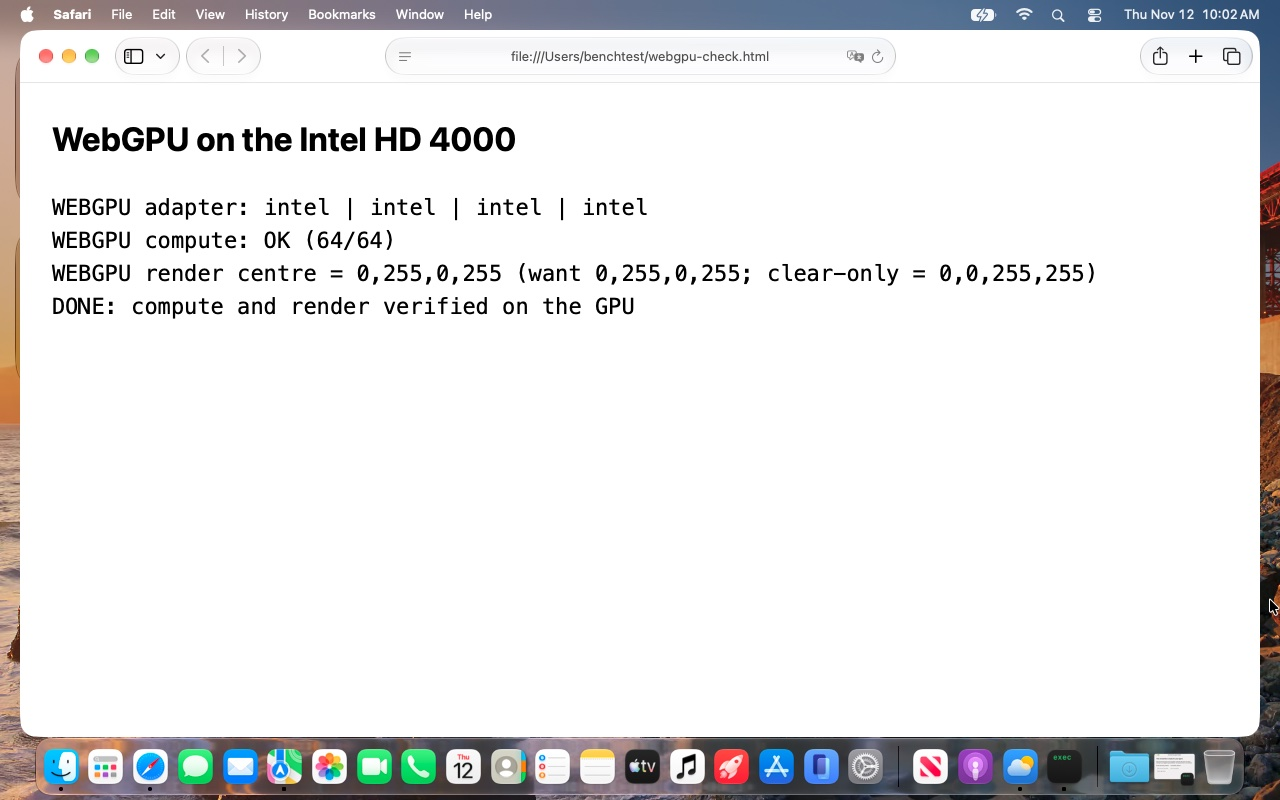
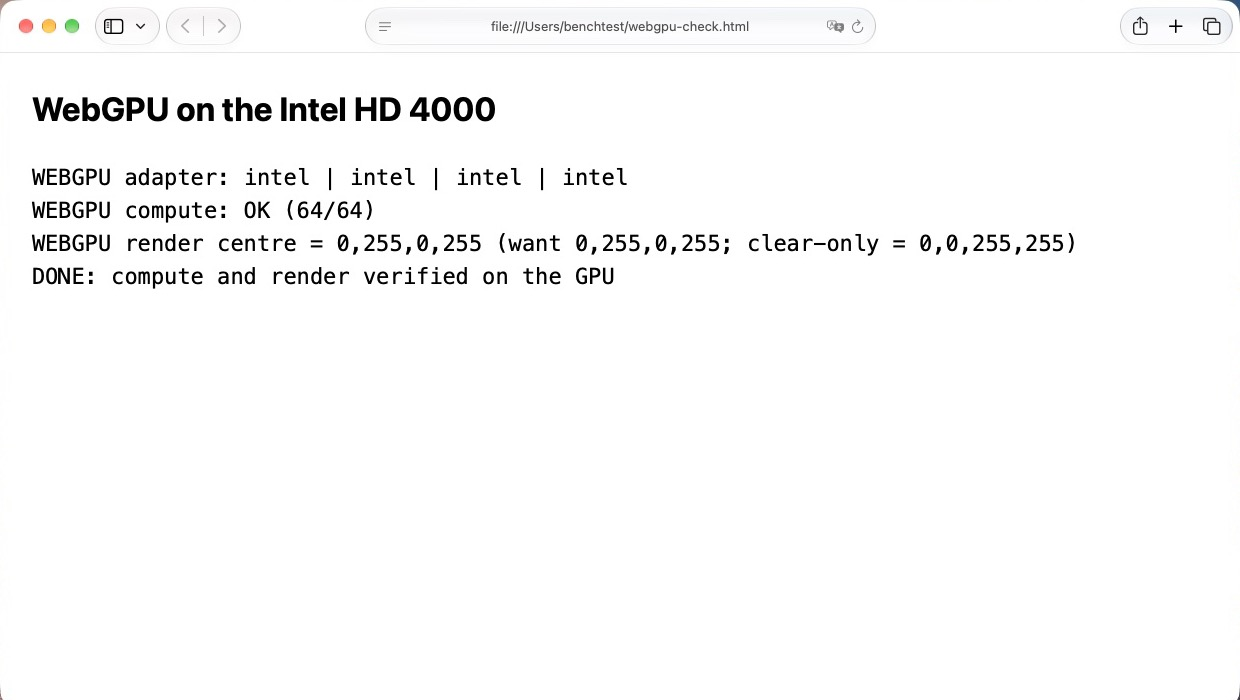
README and gallery: argument-buffer showcase, clean screenshots
- README: a short "Metal argument buffers on the Intel HD 4000" showcase (Weather wind and temperature maps side by
  side, the Safari WebGPU check) linking to the gallery and tools/metal-argbuf.
- Main screenshot: 27.2.1 on 2026-11-11 (About This Mac, Control Center, widgets; serial blank) replaces the
  2026-11-07 desktop, which showed an older build, a "Weather Unavailable" widget and a bench tool in the Dock. The
  Wi-Fi network name in Control Center is blanked.
- Gallery: every image cropped to its app window, removing the Dock and the bench tool's icon.

Tested: README and gallery image links resolve; pipeline private-reference guard OK; images checked by eye.

Claude-Session: https://claude.ai/code/session_013Bf4uRfkU6NKoEExqQCLqb

Changed region(s): [[0.0, 0.0, 1.0, 1.0]]

diff --git a/README.md b/README.md
@@ -8,10 +8,25 @@ kernel extensions, drivers and boot files macOS 26 (Tahoe) still ships, legacy h
 Patcher, a set of compatibility fixes, and [hao-runtime](https://github.com/lythka/hao-runtime), which runs Golden
 Gate's ARM-only programs on the Intel CPU.
 
-![macOS 27 desktop and Control Center on an Intel Mac](docs/images/desktop-intel.jpg)
+![macOS 27.2.1 on a 2012 MacBook Pro: About This Mac, Control Center and widgets](docs/images/desktop-intel.jpg)
 
 [Gallery](docs/gallery.md) · [Progress](docs/progress.md) · [Building](docs/building.md) ·
 [Buy me a coffee](https://buymeacoffee.com/lythka)
+
+### Metal argument buffers on the Intel HD 4000
+
+The HD 4000's legacy Metal stack has no argument buffers or ASTC textures, which Weather's maps, Safari's WebGPU,
+SceneKit and Apple's effects engine need. hao-patcher adds both to the shader compiler and the driver
+([tools/metal-argbuf](tools/metal-argbuf)):
+
+<p>
+<img src="docs/images/gallery/weather-wind-map.jpg" alt="Weather wind map on the HD 4000" width="49%">
+<img src="docs/images/gallery/weather-temperature-map.jpg" alt="Weather temperature map on the HD 4000" width="49%">
+</p>
+
+<img src="docs/images/argbuf-webgpu.jpg" alt="Safari WebGPU compute and render check passing on the HD 4000" width="98%">
+
+More in the [gallery](docs/gallery.md): the air-quality map, Maps in 3D and SceneKit.
 
 ## Status
 

diff --git a/docs/gallery.md b/docs/gallery.md
@@ -1,6 +1,6 @@
 # Gallery
 
-macOS 27.2.1 (26B131) on the development platform, a 2012 MacBook Pro (Intel HD 4000), 2026-11-12. Weather and
+macOS 27.2.1 (26B131) on the development platform, a 2012 MacBook Pro (Intel HD 4000), 2026-11-12 (app windows shown). Weather and
 WebGPU need Metal argument buffers and ASTC textures, which the HD 4000's legacy Metal stack does not provide;
 [tools/metal-argbuf](../tools/metal-argbuf) implements them in the shader compiler and the driver. Maps and SceneKit
 need their shader libraries repaired for the old compiler ([cache/metallib](../cache/metallib)).
